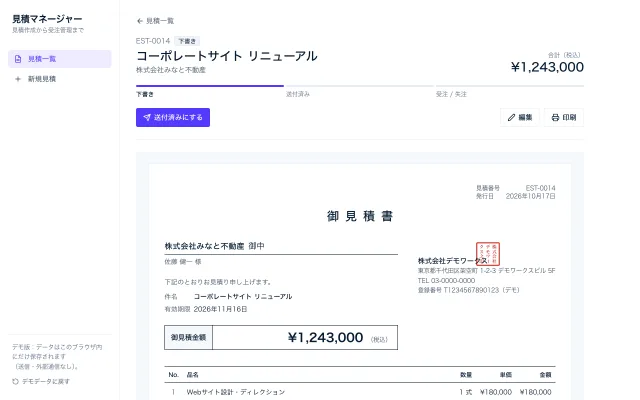
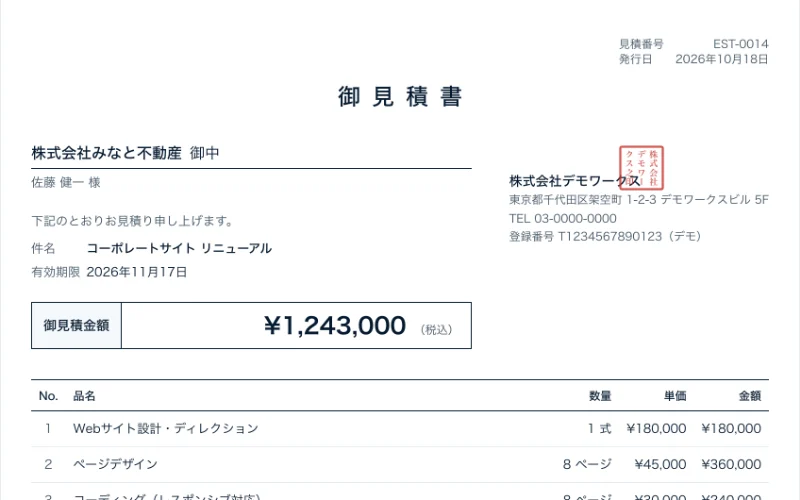
fix: サムネイルを見せ場の切り抜きにし、レビュー指摘を直す
- MVP のサムネイルを画面全体の縮小から見せ場の切り抜き（800x500）に撮り直し、表示を大きくする
- Hikae: 未入金の請求を DOM 上でも先に置き、見た目とフォーカス順を一致させる
- LP: モダンのナビのリンク名を業種の見出しに合わせる

diff --git a/mvp-freelance-manager/components/views/DashboardView.tsx b/mvp-freelance-manager/components/views/DashboardView.tsx
@@ -153,6 +153,10 @@ function Dashboard({ data, today }: { data: AppData; today: ISODate }) {
       </div>
 
       <div className="mb-4 grid gap-4 lg:grid-cols-5">
+        {/* 「入金済にする」がデモの山場なので、見た目もフォーカス順も今日やることより先に置く */}
+        <Card title="未入金の請求" className="lg:col-span-3" action={<MoreLink href="/invoices">請求一覧</MoreLink>}>
+          <InvoiceList invoices={unpaid} data={data} today={today} empty="未入金の請求はありません" />
+        </Card>
         <Card title="今日やること" className="lg:col-span-2" action={<MoreLink href="/tasks">すべて見る</MoreLink>}>
           {focusTasks.length === 0 ? (
             <p className="px-5 py-8 text-center text-sm text-warm-500">今日のタスクはすべて完了です</p>
@@ -168,10 +172,6 @@ function Dashboard({ data, today }: { data: AppData; today: ISODate }) {
               ))}
             </ul>
           )}
-        </Card>
-        {/* スマホでは「入金済にする」まで早く届くよう、今日やることより先に出す */}
-        <Card title="未入金の請求" className="order-first lg:order-none lg:col-span-3" action={<MoreLink href="/invoices">請求一覧</MoreLink>}>
-          <InvoiceList invoices={unpaid} data={data} today={today} empty="未入金の請求はありません" />
         </Card>
       </div>
 

diff --git a/portfolio-mvps/components/ProjectRow.tsx b/portfolio-mvps/components/ProjectRow.tsx
@@ -29,10 +29,10 @@ export function ProjectRow({ project }: { project: Project }) {
         <Image
           src={thumbnail}
           alt={`${name}のデモ画面`}
-          width={640}
-          height={400}
-          sizes="(min-width: 640px) 176px, 160px"
-          className="w-40 sm:w-44 sm:mt-1 h-auto shrink-0 rounded-[4px] border border-rule"
+          width={800}
+          height={500}
+          sizes="(min-width: 640px) 224px, 320px"
+          className="w-full max-w-[320px] sm:w-56 sm:mt-1 h-auto shrink-0 rounded-[4px] border border-rule"
         />
       )}
     </article>

diff --git a/mvp-lp-generator/components/lp/ModernPage.tsx b/mvp-lp-generator/components/lp/ModernPage.tsx
@@ -61,7 +61,7 @@ function Hero({ store, wide }: TemplateProps) {
           )}
           <div className="mt-8 flex flex-wrap items-center gap-x-7 gap-y-4">
             <a href="#reserve" className={BTN}>{ctaLabel(store)}</a>
-            <a href="#menu" className="border-b border-white/40 pb-0.5 text-sm hover:border-white">メニュー・料金</a>
+            <a href="#menu" className="border-b border-white/40 pb-0.5 text-sm hover:border-white">{menuTitle(store)}</a>
           </div>
         </div>
       </div>
